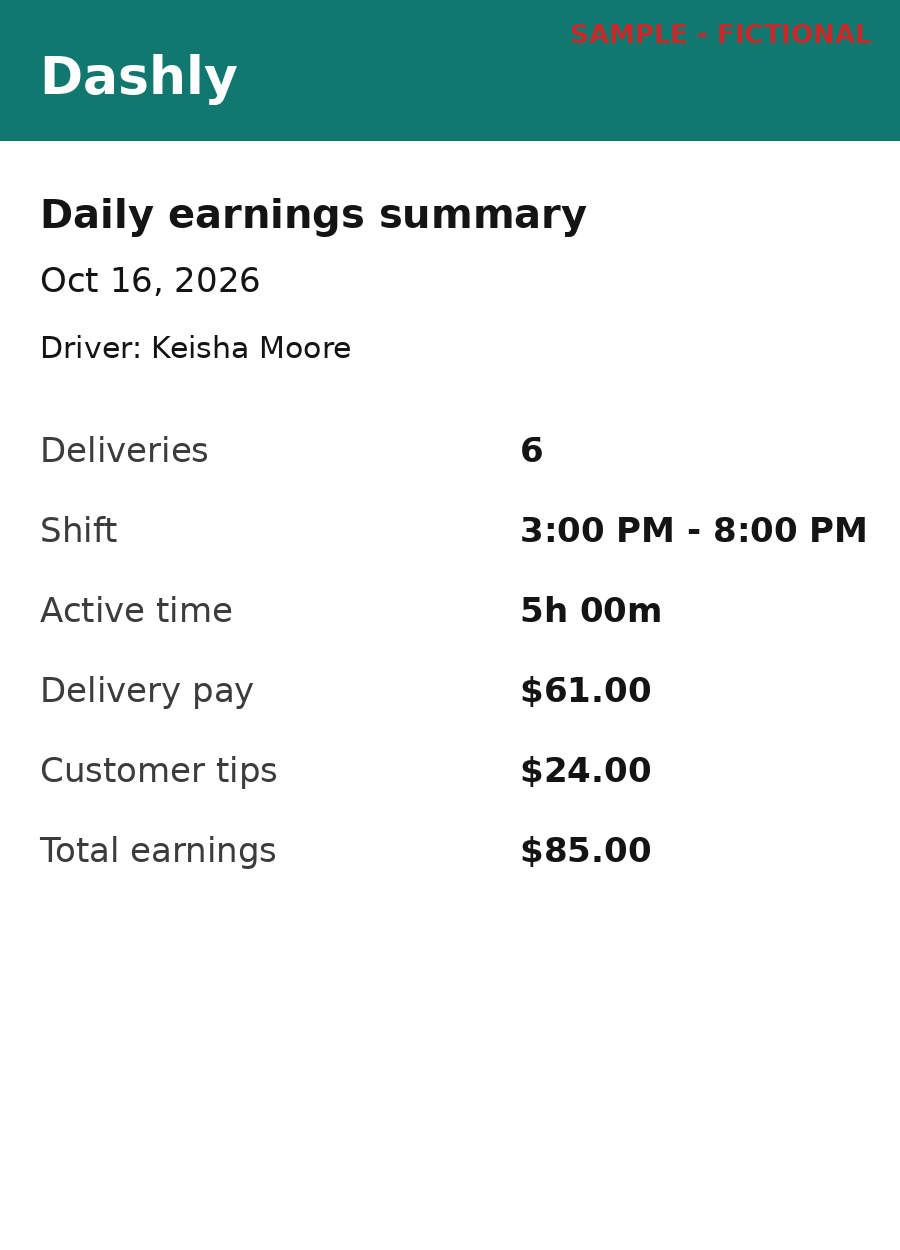
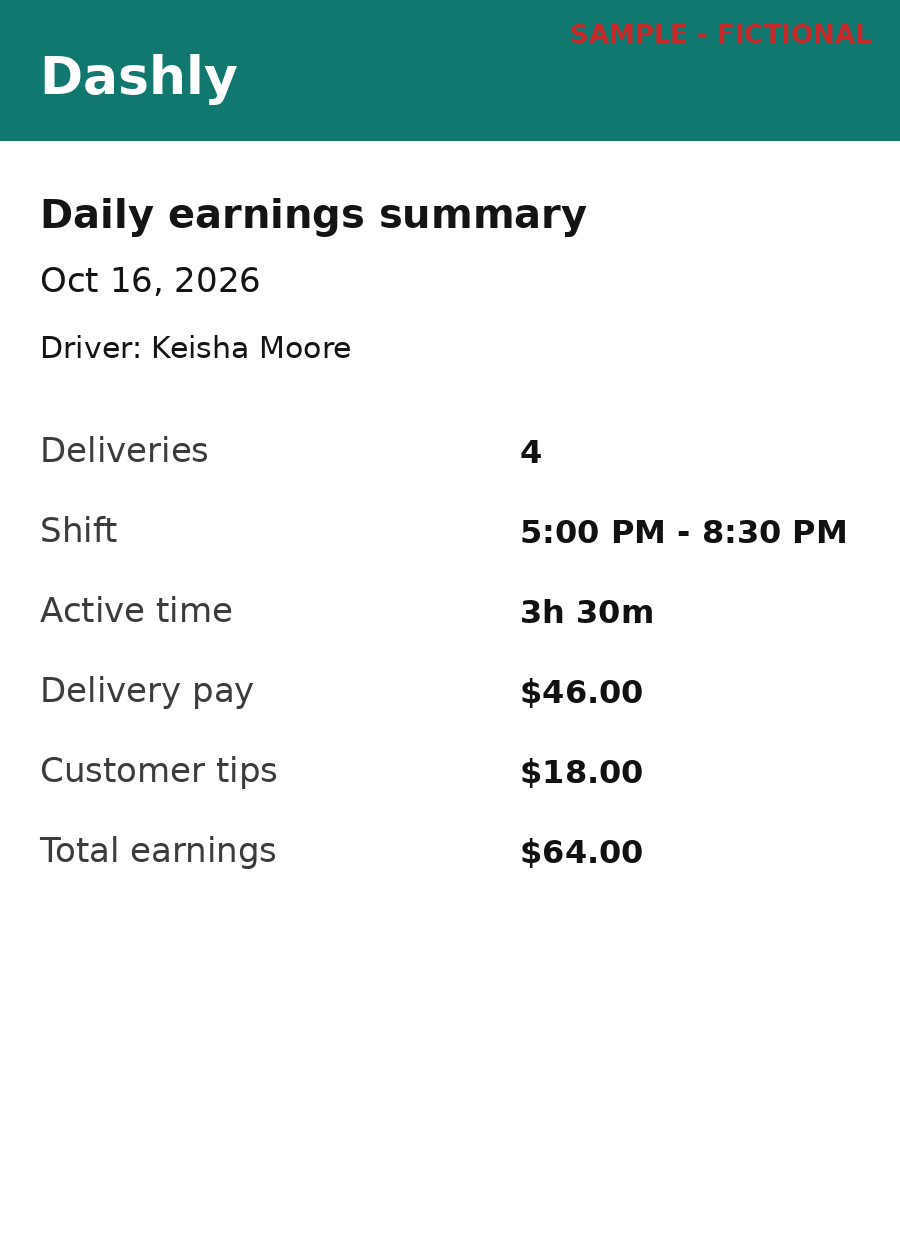
Add files via upload

diff --git a/kept/web/templates/letter.html b/kept/web/templates/letter.html
@@ -53,5 +53,5 @@
   </form>
 </details>
 
-{% if L.document_id %}<h2>The letter</h2><img class="docimg" src="{{ url_for('file', doc_id=L.document_id) }}" alt="Photo of the letter">{% endif %}
+{% if L.document_id %}<h2>The letter</h2>{% if L.filename and L.filename.endswith('.pdf') %}<p><a class="btn secondary" href="{{ url_for('file', doc_id=L.document_id) }}" target="_blank">Open the letter (PDF)</a></p>{% else %}<img class="docimg" src="{{ url_for('file', doc_id=L.document_id) }}" alt="Photo of the letter">{% endif %}{% endif %}
 {% endblock %}

diff --git a/tools/make_letter_pdf.py b/tools/make_letter_pdf.py
@@ -1,0 +1,75 @@
+"""Draw the fictional renewal letter used in the demo video (samples/sample_renewal_letter.pdf)."""
+from pathlib import Path
+from reportlab.lib.pagesizes import letter
+from reportlab.lib.units import inch
+from reportlab.lib import colors
+from reportlab.pdfgen import canvas
+
+OUT = Path(__file__).resolve().parent.parent / "samples" / "sample_renewal_letter.pdf"
+
+
+def main():
+    c = canvas.Canvas(str(OUT), pagesize=letter)
+    c.setTitle("Sample renewal letter (fictional)")
+    W, H = letter
+    x = inch
+    c.setFillColor(colors.HexColor("#b3261e"))
+    c.setFont("Helvetica-Bold", 10)
+    c.drawRightString(W - inch, H - 0.6 * inch, "SAMPLE - FICTIONAL")
+    c.setFillColor(colors.black)
+    c.setFont("Helvetica-Bold", 15)
+    c.drawString(x, H - 1.0 * inch, "STATE MEDICAID OFFICE (SAMPLE)")
+    c.setFont("Helvetica", 10.5)
+    c.drawString(x, H - 1.22 * inch, "Community Engagement Unit  -  PO Box 0000, Sample City")
+    c.setLineWidth(0.8)
+    c.line(x, H - 1.35 * inch, W - inch, H - 1.35 * inch)
+
+    y = H - 1.75 * inch
+    for line in ["October 19, 2026", "", "Keisha Moore", "1200 Sample Street, Apt 4", "Sample City",
+                 "", "Case number: 000-SAMPLE-000"]:
+        c.drawString(x, y, line)
+        y -= 15
+    y -= 12
+    c.setFont("Helvetica-Bold", 13)
+    c.drawString(x, y, "YOUR MEDICAID RENEWAL")
+    y -= 26
+    c.setFont("Helvetica", 11)
+    body = [
+        "Dear Keisha Moore,",
+        "",
+        "Your Medicaid coverage is due for renewal on January 1, 2027.",
+        "",
+        "To keep your coverage, you must show 80 hours each month of work, community",
+        "service, job training or school, or at least $580 of income, for these months:",
+        "",
+        "        October 2026",
+        "        November 2026",
+        "        December 2026",
+        "",
+        "Our records cannot confirm your hours from employer data. Please send proof of",
+        "your hours or income for each month: pay stubs, earnings statements from apps,",
+        "or a signed page from the organization where you volunteer.",
+        "",
+        "Please respond by December 31, 2026.",
+        "",
+        "You can send it online, by mail, or at your local office. If we do not receive",
+        "proof, your coverage may stop. If you think you should not have to show hours,",
+        "for example because of a health condition or caring for a child, tell us.",
+        "",
+        "Sincerely,",
+        "Community Engagement Unit",
+    ]
+    for line in body:
+        if line.startswith("Please respond"):
+            c.setFont("Helvetica-Bold", 11)
+        c.drawString(x, y, line)
+        c.setFont("Helvetica", 11)
+        y -= 16
+    c.setFont("Helvetica-Oblique", 8.5)
+    c.setFillColor(colors.HexColor("#555555"))
+    c.drawString(x, 0.7 * inch, "This is a fictional sample for a demo. It is not from any real government agency.")
+    c.save()
+
+
+if __name__ == "__main__":
+    main()

diff --git a/tests/test_web.py b/tests/test_web.py
@@ -116,16 +116,24 @@ class Web(unittest.TestCase):
         html = self.c.get(f"/proof/entry/{e['id']}").get_data(as_text=True)
         self.assertIn("October 16, 2026", html)
         self.assertIn('name="entry_id"', html)
-        # a photo that says $85 for a job she logged as $46: Kept points out the difference
+        # first given to the wrong day (the Oct 20 class): Kept points out the dates, nothing is saved
+        cls_e = self.conn.execute("SELECT e.* FROM entry e JOIN activity a ON a.id=e.activity_id WHERE a.person_id=? "
+                                  "AND a.name='Adult Learning Center' AND e.start_date='2026-10-20'", (pid,)).fetchone()
+        data = {"photo_file": (io.BytesIO((SAMPLES / "proof_dashly_oct16.png").read_bytes()), "d.png"), "entry_id": str(cls_e["id"])}
+        r = self.c.post("/add/photo", data=data, content_type="multipart/form-data")
+        html = self.c.get(r.headers["Location"]).get_data(as_text=True)
+        self.assertIn("the photo says <strong>Oct 16</strong>, you logged <strong>Oct 20</strong>", html)
+        # then the same photo from the right day: checked against Oct 16, not refused as a duplicate
+        # a photo that says $64 for a job she logged as $46: Kept points out the difference
         data = {"photo_file": (io.BytesIO((SAMPLES / "proof_dashly_oct16.png").read_bytes()), "d.png"), "entry_id": str(e["id"])}
         r = self.c.post("/add/photo", data=data, content_type="multipart/form-data")
         html = self.c.get(r.headers["Location"]).get_data(as_text=True)
-        self.assertIn("Proof for:", html)
-        self.assertIn("match what you logged", html)
+        self.assertIn("<strong>Proof for:</strong> Dashly, Oct 16", html)
+        self.assertIn("the photo says <strong>$64.00</strong>, you logged <strong>$46.00</strong>", html)
         doc_id = int(r.headers["Location"].rstrip("/").split("/")[-1])
         before = len(self.conn.execute("SELECT 1 FROM entry WHERE activity_id=? AND superseded_by IS NULL", (dashly,)).fetchall())
         self.c.post(f"/review/{doc_id}", data={"action": "save", "activity_id": dashly, "start": "2026-10-16",
-                                               "end": "2026-10-16", "hours": "5", "income": "85"})
+                                               "end": "2026-10-16", "hours": "3.5", "income": "64"})
         after = len(self.conn.execute("SELECT 1 FROM entry WHERE activity_id=? AND superseded_by IS NULL", (dashly,)).fetchall())
         self.assertEqual(before, after)  # the typed job was replaced, not doubled
         # now the calendar day offers the download

diff --git a/kept/web/app.py b/kept/web/app.py
@@ -336,6 +336,15 @@ def create_app(conn=None) -> Flask:
     def _process_upload(path: Path, name: str, is_letter=False, activity_id=None, for_entry=None):
         doc_id, err = S.store_upload(g.conn, g.person["id"], path, name)
         if err == "duplicate":
+            prev = g.conn.execute("SELECT status FROM document WHERE id=?", (doc_id,)).fetchone()
+            if prev["status"] == "needs_review" and for_entry:
+                # not saved yet: the same photo, now offered for another job, is checked against that job
+                e = g.conn.execute("SELECT * FROM entry WHERE id=? AND person_id=?", (for_entry, g.person["id"])).fetchone()
+                if e:
+                    g.conn.execute("UPDATE document SET for_entry=?, activity_id=? WHERE id=?",
+                                   (for_entry, e["activity_id"], doc_id))
+                    g.conn.commit()
+                    return redirect(url_for("review_doc", doc_id=doc_id))
             flash("You already added this exact photo. It's counted once.")
             return redirect(url_for("review_doc", doc_id=doc_id))
         if err:
@@ -620,7 +629,8 @@ def create_app(conn=None) -> Flask:
 
     @app.get("/letters/<int:lid>")
     def letter_page(lid):
-        L = g.conn.execute("SELECT * FROM letter WHERE id=? AND person_id=?", (lid, g.person["id"])).fetchone()
+        L = g.conn.execute("SELECT l.*, d.filename FROM letter l LEFT JOIN document d ON d.id=l.document_id "
+                           "WHERE l.id=? AND l.person_id=?", (lid, g.person["id"])).fetchone()
         if not L:
             abort(404)
         c = ctx()

diff --git a/kept/services.py b/kept/services.py
@@ -168,6 +168,16 @@ def supersede_with_statement(conn, pid, activity_id, start: date, end: date, new
 
 # ---------------------------------------------------------------- documents
 
+def _pdf_text(path: Path) -> tuple[str, bool]:
+    """A PDF made by a computer already carries its text: read it directly. Scanned PDFs have none."""
+    try:
+        from pypdf import PdfReader
+        text = "\n".join((pg.extract_text() or "") for pg in PdfReader(str(path)).pages[:5])
+    except Exception:
+        return "", False
+    return text, len(text.strip()) >= 20
+
+
 def store_upload(conn, pid, src_path: Path, original_name: str) -> tuple[int | None, str | None]:
     """Save a photo, refuse exact duplicates, read its text. Returns (document_id, error)."""
     raw = Path(src_path).read_bytes()
@@ -187,7 +197,7 @@ def store_upload(conn, pid, src_path: Path, original_name: str) -> tuple[int | N
             shutil.copy(src_path, dest)
         else:
             return None, "unreadable"
-    text, ok = ("", False) if name.endswith(".pdf") else ocr.read_text(dest)
+    text, ok = _pdf_text(dest) if name.endswith(".pdf") else ocr.read_text(dest)
     cur = conn.execute(
         "INSERT INTO document(person_id,filename,original_name,sha256,ocr_text,ocr_ok,created_at) VALUES(?,?,?,?,?,?,?)",
         (pid, name, original_name, sha, text, int(ok), db.now_iso()))

diff --git a/tests/test_capture.py b/tests/test_capture.py
@@ -120,6 +120,17 @@ class Letters(AIOff):
         self.assertEqual(r["respond_by"], date(2026, 12, 23))
         self.assertEqual(r["months"], ["2026-10", "2026-11"])
 
+    def test_pdf_letter_text_layer(self):
+        from kept.services import _pdf_text
+        text, ok = _pdf_text(ROOT / "samples" / "sample_renewal_letter.pdf")
+        self.assertTrue(ok)
+        r = letters.read_letter(text, date(2026, 10, 20))
+        self.assertEqual(r["kind"], "renewal")
+        self.assertEqual(r["letter_date"], date(2026, 10, 19))
+        # "due for renewal on January 1" is not the deadline; "respond by December 31" is
+        self.assertEqual(r["respond_by"], date(2026, 12, 31))
+        self.assertEqual(r["months"], ["2026-10", "2026-11", "2026-12"])
+
     def test_noncompliance(self):
         r = letters.read_letter("We could not verify your hours. Your coverage will end.", date(2026, 11, 25))
         self.assertEqual(r["kind"], "noncompliance")

diff --git a/kept/capture/letters.py b/kept/capture/letters.py
@@ -40,7 +40,7 @@ EXPLAIN = {
 }
 
 DEADLINE_RX = re.compile(r"(respond|return|reply|send[^.\n]{0,30}?)\s*(?:it\s+)?(?:to us\s+)?(by|before|no later than)\b|"
-                         r"\b(due( date)?|deadline)\b[:\s]", re.I)
+                         r"\b(due date|deadline)\b[:\s]|\bdue\s*(:|by\b|on\b)", re.I)   # not "due for renewal"
 
 
 def classify(text: str) -> str:

diff --git a/README.md b/README.md
@@ -80,7 +80,7 @@ The sample documents in `samples/` are fictional and marked SAMPLE.
 
 ## Tests
 
-`python -m unittest discover tests` runs 76 tests: the rules (thresholds, income path, seasonal average, pay periods across months, duplicates, months checked, deadlines, exemptions), reading (text, photos with Tesseract, letters, the AI's answers being checked), the agent (the whole demo story, weekly limits, modes) and every screen.
+`python -m unittest discover tests` runs 77 tests: the rules (thresholds, income path, seasonal average, pay periods across months, duplicates, months checked, deadlines, exemptions), reading (text, photos with Tesseract, letters, the AI's answers being checked), the agent (the whole demo story, weekly limits, modes) and every screen.
 
 ## What's live and what's planned
 
@@ -98,7 +98,7 @@ kept/services.py          saving entries and documents, proof, sign-offs
 kept/pdfs.py              printable reporting log, volunteer page, proof packet
 kept/web/                 the app (Flask) and its screens
 kept/demo.py              Keisha's month
-tests/                    76 tests
+tests/                    77 tests
 ```
 
 ## Sources
